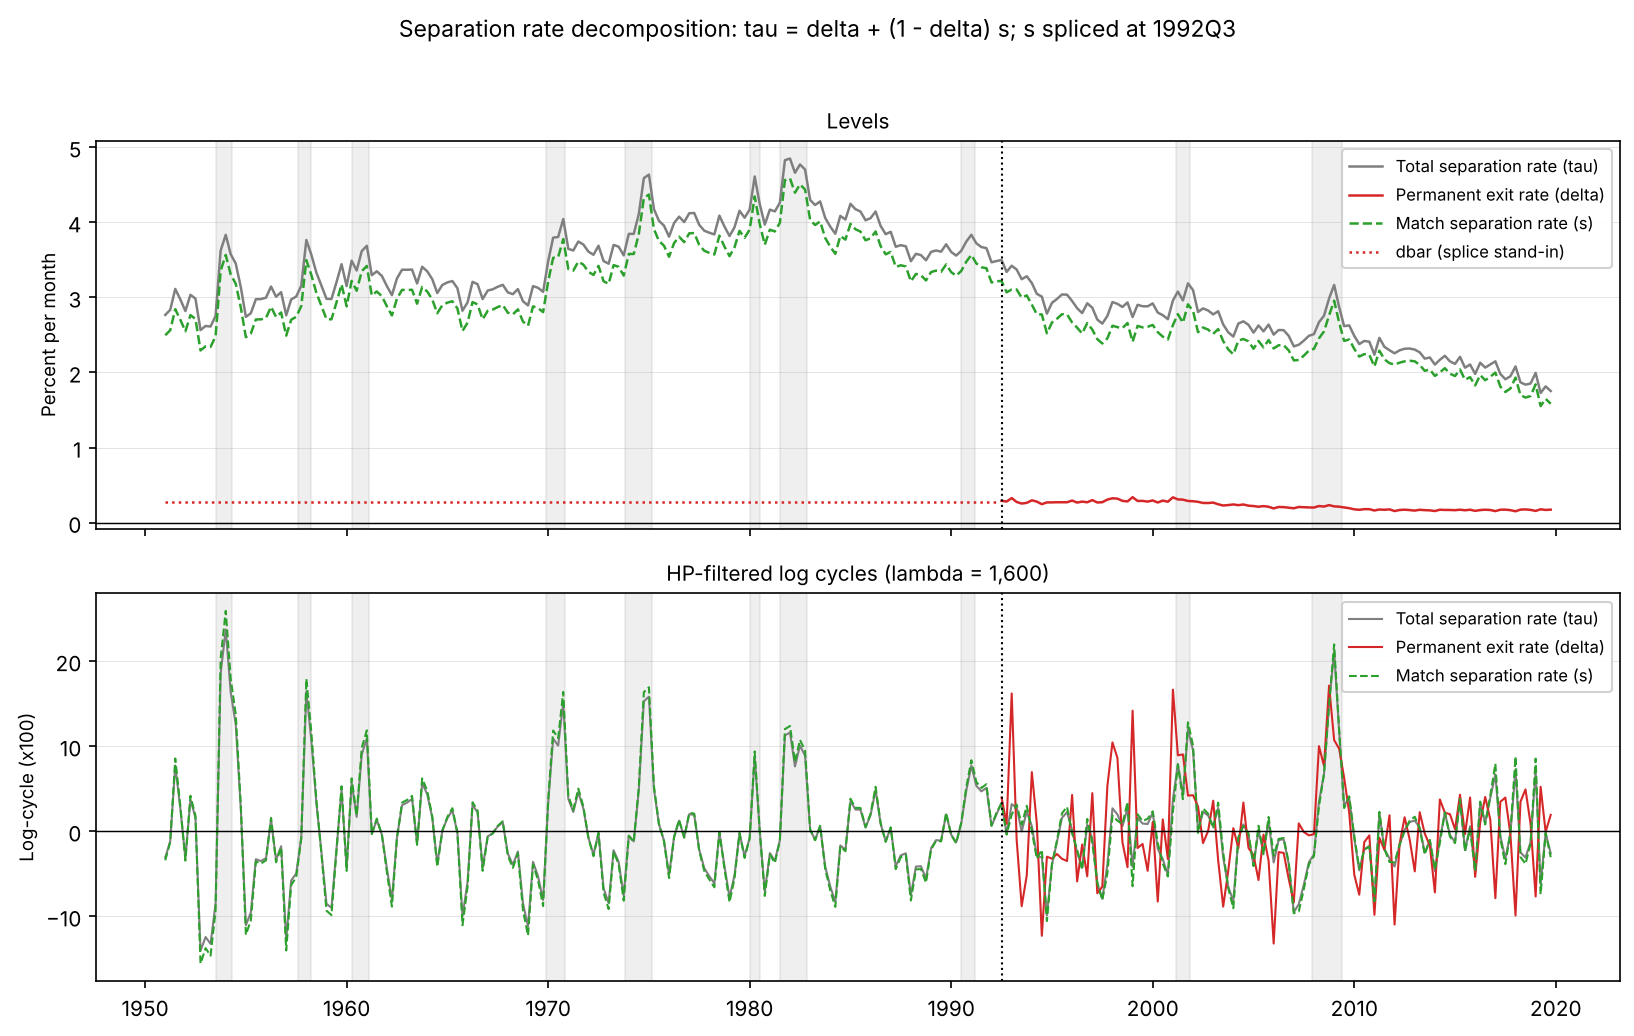
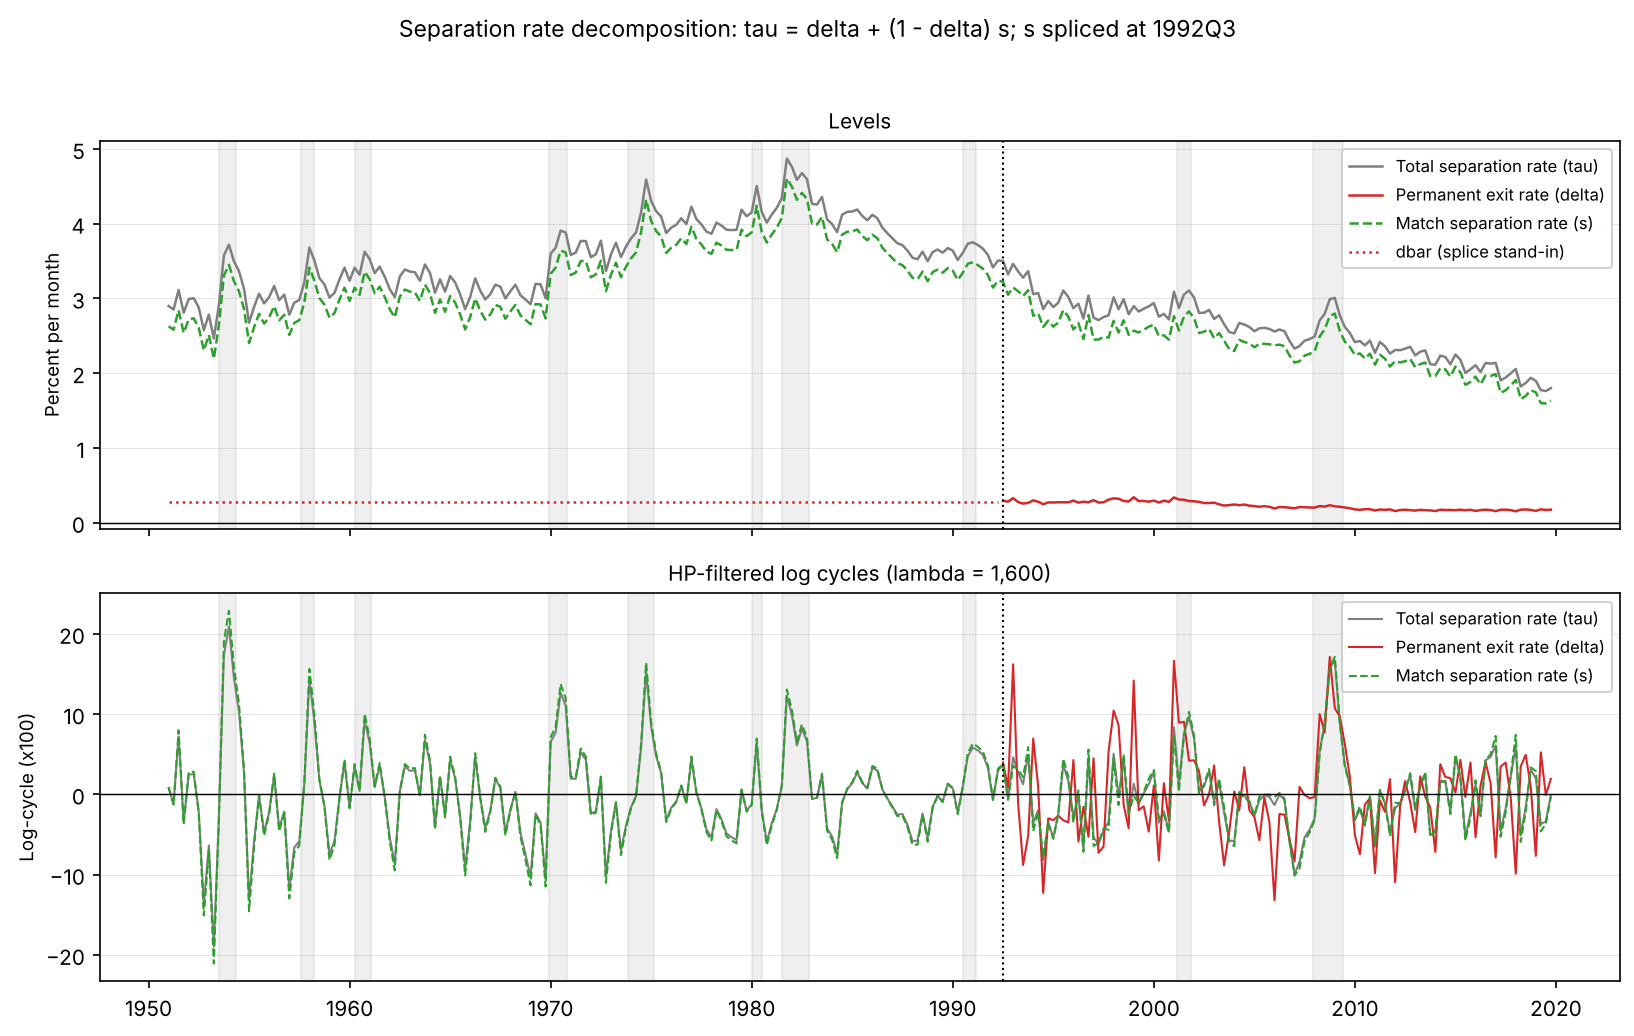
Fix jf/tau timing in shimer_flows; rerun part6b
- u_level[1:] kept its date labels, so pandas aligned it with u_t and
  jf_t collapsed to u^s_t/u_t. Now jf_t = 1 - (u_{t+1} - u^s_{t+1})/u_t
  (Shimer eq. 4) and the separation rate uses u^s_{t+1}.
- raw_data.pkl: only s (tau) and jf refreshed (option (b)); other columns
  unchanged.
- part6b rerun: monthly s (0.8054, 0.0711); z and delta unchanged. The D14
  independence rule now passes narrowly (z explains 9.2% of the s
  innovation, t = -4.38; it read 19.1% with the misdated flows).

Claude-Session: https://claude.ai/code/session_01RCdVgLbAS9PV6PfZQqQNTp

diff --git a/Data/observables.py b/Data/observables.py
@@ -66,15 +66,18 @@ def shimer_flows(u_level, e_level, u_short, freq):
     u_short = u_short.copy()
     u_short.loc[u_short.index >= CPS_REDESIGN_DATE] *= CPS_REDESIGN_FACTOR
 
-    # NOTE (Oct 28, 2026, not yet changed): u_level[1:] keeps its date
-    # labels, so pandas aligns u_next with u_level and jf_t = u_short_t/u_t,
-    # not Shimer's eq. (4), F_t = 1 - (u_{t+1} - u^s_{t+1})/u_t. Pending MS
-    # (context/pending_tasks.md, Q2).
-    u_next  = u_level[1:len(u_level)]
-    jf      = 1 - (u_next - u_short) / u_level
+    # Flows are dated by the period [t, t+1) they cover, so both use the
+    # stocks observed at t+1. Shimer eq. (4): F_t = 1 - (u_{t+1} - u^s_{t+1})/u_t.
+    # Separation rate from eq. (2) with e held at e_t over the period:
+    # u^s_{t+1} = e_t s_t (1 - exp(-f_t))/f_t.
+    # (Fixed Oct 28, 2026: the old u_level[1:] kept its date labels, so pandas
+    # aligned it with u_t and jf_t collapsed to u^s_t/u_t.)
+    u_next  = u_level.shift(-1)
+    us_next = u_short.shift(-1)
+    jf      = 1 - (u_next - us_next) / u_level
     jfh     = -np.log(1 - jf)
     denom   = -np.expm1(-jfh)
-    sh      = (u_short * jfh) / (e_level * denom)
+    sh      = (us_next * jfh) / (e_level * denom)
     s       = 1.0 - np.exp(-sh)
     s       = s.drop(pd.Timestamp("2020-03-01"), errors='ignore')
 

diff --git a/Data/context/pending_tasks.md b/Data/context/pending_tasks.md
@@ -20,7 +20,7 @@ matched by indirect inference. Full plan: `~/.claude/plans/wiggly-gliding-pelica
 |---|---|---|
 | Q0 | **Presentation, in parallel.** (1) Notation audit of §§2–3 and the appendices; propose renames, apply after MS approves; add a notation table. Known clashes: e_t vs e_{zt}; ρ(N) vs ρ_x; ω vs ω_u vs ω_δ; Φ(θ) vs Φ_θ; η_L vs translog η; s in the SMCD footnote. (2) A "model at a glance" paragraph opening §2. **Done Oct 14:** Tier 1 renames plus the state index s → i (`25c2327`); "model at a glance" paragraph and notation table, Appendix K `app:notation` (`816b73b`). Left as is by choice: m(u,v) vs m_{t+1}, the λ family (HP, marginal utility, λ_u), the ε elasticity family | ✅ |
 | Q1 | **R8 + D1 + PATH B, one regeneration pass.** Plan: [`../Notes/Q1_R8_D1_PATHB_plan.md`](../Notes/Q1_R8_D1_PATHB_plan.md). **Steps 1–7 done on `r8_timing_reposting` (Oct 14 and Oct 18); Tests 1–6 pass.** Step 5: `TARGETS` = D1 (`dest_ann = 0.0320`) + PATH B (`dest_elast_target = 5.0`), b/w = 0.9, x_v = 0.5, `Λr_target = nothing`; δ_e/τ = 0.0873 (`R8_step5_defaults.txt`); D2 settled. Step 6: `SHOCKS_BASE`, `shock_col`, qzflag guard; ten runners use `build_PAR` and named shock columns and all run; Comparison A's CK spec uses δ_e = τ(1−1e-6); legacy sensitivity runners marked unmaintained. Step 7: `R8_step7_baseline.txt` (cor(u,v) grid) and `R8_test6_free_entry.txt` (Test 6 passes under AGS emulation; gap 1.9e-4; found R19). **Closed Oct 19:** branches reconciled (`853b053`: cleaned core, `sigma_determinacy.jl`, `R8_test_timing` on `build_PAR`, JLD2 restored; all 8 R8 programs reproduce, all 10 runners pass); `model_equations.md` "Code status" resolved with the f[k] map; `parameters.md` Λ̄_r replaces α in Θ_e; `pipeline.md` conventions; D11 record; merged into `costly_vacancy_reposting` | ✅ |
-| Q2 | **Trivariate (z, δ, s) VAR** for the shock processes. Extend `part6b_shock_persistence_cyclical.py`; z → δ → s; HP-1600, 1992Q3–2019Q4; off-diagonals excluded from the exogenous processes as for â₂₁. Replaces the separate AR(1) for s (corr(η^δ, η^LD) ≈ 0.49). Output `.txt` for §5.2 (N15). **More urgent after Q1 step 7 (Oct 18):** with the part6b AR(1) s process, cor(u,v) reaches only +0.46 at Λ̄_r = 0.70; the s shock sets the sign, so the Λ̄_r required cannot be read before the VAR. **Scoped Oct 19 (see [D14](decisions.md)).** Gaps in the part6b approach: (1) σ_s is a univariate residual SD, never orthogonalized against z and δ; (2) the double-counting argument used for z → δ does not apply to s, because the model has no endogenous s, so orthogonalizing is a choice (D14), not a correction; (3) BED noise enters s with weight ≈ δ/τ, which builds a spurious negative s–δ correlation; (4) ρ_s absorbs any lagged z, δ → s feedback, which is never reported; (5) the shock processes must come from the same identification as Block B′. **Deliverables:** full A₁ with t-stats, residual correlation matrix, σ_s before and after orthogonalization, the share of s innovation variance explained by z and δ, monthly (ρ, σ); then rerun the Step-7 cor(u,v) grid and report σ(τ) at the new processes. Output `.txt` for §5.2 and an updated `SHOCKS_BASE`. Environment: `Data/environment.yml` (Oct 20). **Done Oct 20:** `part6c_shock_var_trivariate.py` → `shock_var_trivariate.txt/.csv`; `Q2_shock_processes_check.jl/.txt`. Results (findings.md "Q2"): the s innovation is nearly orthogonal (1.1 % explained), so concern (1) is rejected; ρ_s/σ_s fall to 0.8387/0.0773 because lagged δ predicts s (t = 2.81). **cor(u,v) is unchanged** (+0.483 at Λ̄_r = 0.70, +0.114 at 0.55; floor 0.5): the Beveridge gap is not a shock-process artifact. **Still owed:** (i) adopt (a) in `SHOCKS_BASE` (with `SHK` in `sigma_determinacy.jl`) after MS approval, and rerun the R8 programs whose outputs depend on it; (ii) §5.2 text. **Oct 20 (MS): S13 (end 2019Q4, cut before filtering; applied to part6b/6c) and S14 (window option B).** **Next:** build the S14 processes (a (z, s) VAR on 1951–2019 with s from τ before 1992; the δ equation on 1992–2019), then refresh `SHOCKS_BASE` and rerun the `Q2_*.jl` programs. Block M targets move to the same windows (pre-pandemic cor(u,v) ≈ −0.93)  **Oct 28: S14 processes built in `part6b_shock_persistence_cyclical.py` (`shock_calibration.txt`): monthly z (0.9121, 0.0128), δ (0.5824, 0.0663), s (0.8418, 0.0812). The D14 independence rule triggers on 1951–2019 (z explains 15.7 % of the s innovation, all from before 1985); D14 reopened, MS to choose. Then refresh `SHOCKS_BASE` and rerun the `Q2_*.jl` programs (needs MS approval).**  **Oct 28: τ fixed** (1994 CPS correction now ×1.1 after 1994, `observables.py`; `raw_data.pkl` s and jf only, option (b)); part6b rerun: s (0.8364, 0.0751) monthly; D14 rule still triggers (19.1 %). **Owed:** MS decides D14 and the jf timing bug (findings.md); recompute τ̄ and the τ/jf moments; align `part8` (1.16); move the FRED key out of `observables.py:24` and rotate it. | ⏳ D14, jf timing, then SHOCKS_BASE |
+| Q2 | **Trivariate (z, δ, s) VAR** for the shock processes. Extend `part6b_shock_persistence_cyclical.py`; z → δ → s; HP-1600, 1992Q3–2019Q4; off-diagonals excluded from the exogenous processes as for â₂₁. Replaces the separate AR(1) for s (corr(η^δ, η^LD) ≈ 0.49). Output `.txt` for §5.2 (N15). **More urgent after Q1 step 7 (Oct 18):** with the part6b AR(1) s process, cor(u,v) reaches only +0.46 at Λ̄_r = 0.70; the s shock sets the sign, so the Λ̄_r required cannot be read before the VAR. **Scoped Oct 19 (see [D14](decisions.md)).** Gaps in the part6b approach: (1) σ_s is a univariate residual SD, never orthogonalized against z and δ; (2) the double-counting argument used for z → δ does not apply to s, because the model has no endogenous s, so orthogonalizing is a choice (D14), not a correction; (3) BED noise enters s with weight ≈ δ/τ, which builds a spurious negative s–δ correlation; (4) ρ_s absorbs any lagged z, δ → s feedback, which is never reported; (5) the shock processes must come from the same identification as Block B′. **Deliverables:** full A₁ with t-stats, residual correlation matrix, σ_s before and after orthogonalization, the share of s innovation variance explained by z and δ, monthly (ρ, σ); then rerun the Step-7 cor(u,v) grid and report σ(τ) at the new processes. Output `.txt` for §5.2 and an updated `SHOCKS_BASE`. Environment: `Data/environment.yml` (Oct 20). **Done Oct 20:** `part6c_shock_var_trivariate.py` → `shock_var_trivariate.txt/.csv`; `Q2_shock_processes_check.jl/.txt`. Results (findings.md "Q2"): the s innovation is nearly orthogonal (1.1 % explained), so concern (1) is rejected; ρ_s/σ_s fall to 0.8387/0.0773 because lagged δ predicts s (t = 2.81). **cor(u,v) is unchanged** (+0.483 at Λ̄_r = 0.70, +0.114 at 0.55; floor 0.5): the Beveridge gap is not a shock-process artifact. **Still owed:** (i) adopt (a) in `SHOCKS_BASE` (with `SHK` in `sigma_determinacy.jl`) after MS approval, and rerun the R8 programs whose outputs depend on it; (ii) §5.2 text. **Oct 20 (MS): S13 (end 2019Q4, cut before filtering; applied to part6b/6c) and S14 (window option B).** **Next:** build the S14 processes (a (z, s) VAR on 1951–2019 with s from τ before 1992; the δ equation on 1992–2019), then refresh `SHOCKS_BASE` and rerun the `Q2_*.jl` programs. Block M targets move to the same windows (pre-pandemic cor(u,v) ≈ −0.93)  **Oct 28: S14 processes built in `part6b_shock_persistence_cyclical.py` (`shock_calibration.txt`): monthly z (0.9121, 0.0128), δ (0.5824, 0.0663), s (0.8418, 0.0812). The D14 independence rule triggers on 1951–2019 (z explains 15.7 % of the s innovation, all from before 1985); D14 reopened, MS to choose. Then refresh `SHOCKS_BASE` and rerun the `Q2_*.jl` programs (needs MS approval).**  **Oct 28: τ and jf fixed** (1994 CPS factor ×1.1 after 1994, and the jf/τ timing bug; `observables.py`, `raw_data.pkl` s and jf only, option (b)). part6b rerun: monthly z (0.9121, 0.0128), δ (0.5824, 0.0663), s (0.8054, 0.0711); D14 rule passes narrowly (9.2 %). **Next:** refresh `SHOCKS_BASE` (with MS approval) and rerun the `Q2_*.jl` programs; recompute τ̄ and the τ/jf moments; align `part8` (1.16); move the FRED key out of `observables.py:24` and rotate it. | ⏳ SHOCKS_BASE |
 | Q3 | **Targets.** Block M: refresh `second_moments.jl` (λ = 1,600, all seven series) plus lead/lag cross-correlations of δ_e with u and v; Ω_m via `moments_bootstrap.py`. Block B′: a VAR in (z, δ, s, u, v), δ- and s-shock responses of u and v at h = 0–12, Ω by VAR bootstrap; model side = the same VAR on simulated data. Validation set: Bartik δ→u h = 0–2, δ→v h = 4–6, severity placebo, LD→v | ❌ after Q1, Q2 |
 | Q4 | **Identification check** (extends R2). Jacobian of [M; B′] w.r.t. Θ_e = {b, ξ⁻¹, x_v, ω_δ, p_0, α, (σ)} at the calibrated point: rank, condition number, loadings; Monte Carlo recovery. Weakly identified parameters are fixed on a reported grid | ❌ after Q3 |
 | Q5 | **Hypotheses H1–H5, then calibrated mechanism comparisons over a sensitivity grid.** H1 δ → negative u–v comovement and persistent u. H2 α > 0 necessary and sufficient for cor(u,v) ≈ −0.8. H3 business formation adds δ→u persistence beyond AGS. H4 endogenous exit is minor. H5 reactivation amplifies z and s, damps δ. Grid: ξ⁻¹ ∈ {0.5, 1, 2}, b/w ∈ {0.7, 0.8, 0.9}, ω_δ, and α bracketing cor(u,v). Comparisons A–D plus α → 0; `mechanism_stats.jl`. **Gate for D12 / simple-model-first:** agree a threshold first (e.g. the C-vs-AGS gap moves the δ→u half-life by < 25 % or cor(u,v) by < 0.1 ⇒ lead with the simple model) | ❌ after Q1, Q2 |

diff --git a/Data/context/findings.md b/Data/context/findings.md
@@ -880,7 +880,7 @@ Three steps:
 - s: AR(1) on the spliced 1951–2019 series, with σ_s not purged.
 
 Splice: before 1992Q3, s = (τ − δ̄)/(1 − δ̄), with δ̄ = 0.00278, the mean of the first 10 BED quarters.
-Numbers are after the τ fix below.
+Numbers are after both τ/jf fixes below (factor and timing).
 
 Monthly (ρ, σ):
 
@@ -888,18 +888,19 @@ Monthly (ρ, σ):
 |---|---|---|
 | z | (0.9121, 0.0128) | (0.902, 0.0092) |
 | δ | (0.5824, 0.0663) | (0.592, 0.0669) |
-| s | (0.8364, 0.0751) | (0.8741, 0.0854) |
+| s | (0.8054, 0.0711) | (0.8741, 0.0854) |
 
 - **σ_z rises 39 %.** The longer window adds the pre-1985 volatility (sub-window σ_Q 0.0093 against 0.0058).
 - **The splice is benign.**
   - The log-linear weights are k_pre = 1.084, k_post = 1.096 and w = 0.093.
   - The early anchor cuts the step in ln s at 1992Q3 from −1.93 % to −0.36 %.
-  - On the BED window, the constant-δ̄ construction gives ρ_Q 0.544 / σ_Q 0.0452, against 0.506 / 0.0436 for the true s.
-- **⚠ The D14 independence rule triggers.** The z innovation explains 19.1 % of the s innovation (corr −0.44, t = −6.81, 1951–2019). It comes mostly from before 1985:
-  - 1951–84: corr −0.54, R² 29 %, loading −3.24.
-  - 1985–2019: corr −0.19, R² 3.6 %, t = −2.04.
-  - τ's residual shows the same correlation, so the splice does not produce it. D14 is reopened, pending MS.
-- **Ljung-Box rejects the AR(1) for z, δ and s on these windows** (p ≤ 0.03 at lag 4).
+  - On the BED window, the constant-δ̄ construction gives ρ_Q 0.482 / σ_Q 0.0451, against 0.442 / 0.0430 for the true s.
+- **The D14 independence rule passes, narrowly.** After the timing fix, the z innovation explains 9.2 % of the s innovation (corr −0.30, t = −4.38, 1951–2019), just under the 10 % threshold. The correlation is statistically significant.
+  - 1951–84: corr −0.36, R² 13.3 %, loading −2.13.
+  - 1985–2019: corr −0.15, R² 2.4 %, t = −1.44.
+  - Before the timing fix it read 19.1 %, so the misdated jf/τ roughly doubled it.
+  - τ's residual shows the same correlation, so the splice does not produce it.
+- **Ljung-Box rejects the AR(1) for z and δ** (p ≤ 0.03 at lag 4). For s, p = 0.29 at lag 4 and 0.014 at lag 8.
 - `part6c_shock_var_trivariate.py` imports part6b, so its committed outputs are pre-S14 and would change if rerun.
 
 **τ: the 1994 CPS-redesign correction was applied in the wrong direction (fixed Oct 28).**
@@ -912,4 +913,4 @@ Monthly (ρ, σ):
 - **Still owed:**
   - The τ̄ = 3.10 %/month target and every moment that uses τ or jf (`observables_moments.py`, Block M) must be recomputed.
   - `part8_shimer_national.py` uses 1.16 post-1994, the right direction but a different factor.
-- **Open bug (not fixed; MS to decide):** `u_level[1:]` keeps its date labels, so pandas aligns it with u_t, and jf_t = u^s_t/u_t rather than Shimer's eq. (4), F_t = 1 − (u_{t+1} − u^s_{t+1})/u_t. Means are close (0.402 against 0.401, 1951–2025 monthly), but the correlation is 0.92 monthly and 0.97 quarterly. τ inherits the one-month misalignment.
+- **Timing bug, fixed Oct 28 (MS):** `u_level[1:]` kept its date labels, so pandas aligned it with u_t, and jf_t collapsed to u^s_t/u_t. Now jf_t = 1 − (u_{t+1} − u^s_{t+1})/u_t (Shimer eq. 4), and τ uses u^s_{t+1}. Quarterly correlation of old and new: jf 0.979, τ 0.994. Means barely move (jf 1951–93 0.459 → 0.457), but the dynamics do: monthly ρ_s 0.836 → 0.805.

diff --git a/Data/context/decisions.md b/Data/context/decisions.md
@@ -60,10 +60,11 @@ builds a spurious *negative* s–δ innovation correlation. Only the joint syste
   Oct 20 "take (a)". ρ_s now comes from the univariate AR(1), not the VAR diagonal.
 - **Rule fixed in advance:** revisit if the z innovation explains ≥ 10 % of the s innovation
   and |t| ≥ 2.
-- **Result on the S14 window (1951–2019), after the τ fix: the rule triggers.** R² = 19.1 %,
-  corr −0.44, t = −6.81. Mostly a pre-1985 fact: 1951–84 R² 29 % (corr −0.54, loading −3.24);
-  1985–2019 R² 3.6 % (corr −0.19, t = −2.04). τ shows the same pattern, so the splice does not
-  cause it.
+- **Result on the S14 window (1951–2019), after both τ/jf fixes: the rule passes, narrowly.**
+  R² = 9.2 % (threshold 10 %), corr −0.30, t = −4.38. 1951–84 R² 13.3 % (loading −2.13);
+  1985–2019 R² 2.4 % (t = −1.44). Before the jf/τ timing fix it read 19.1 %. By the rule the
+  baseline is option (i), independent s with σ_s not purged. The correlation is significant, so
+  report it, and (ii) remains a natural robustness check.
 - **Open (MS), options:**
   - (i) keep independent s and report the missing z–s comovement;
   - (ii) load s on ε^z, i.e. s_t = ρ_s s_{t−1} + b·ε^z_t + ε^s_t;
